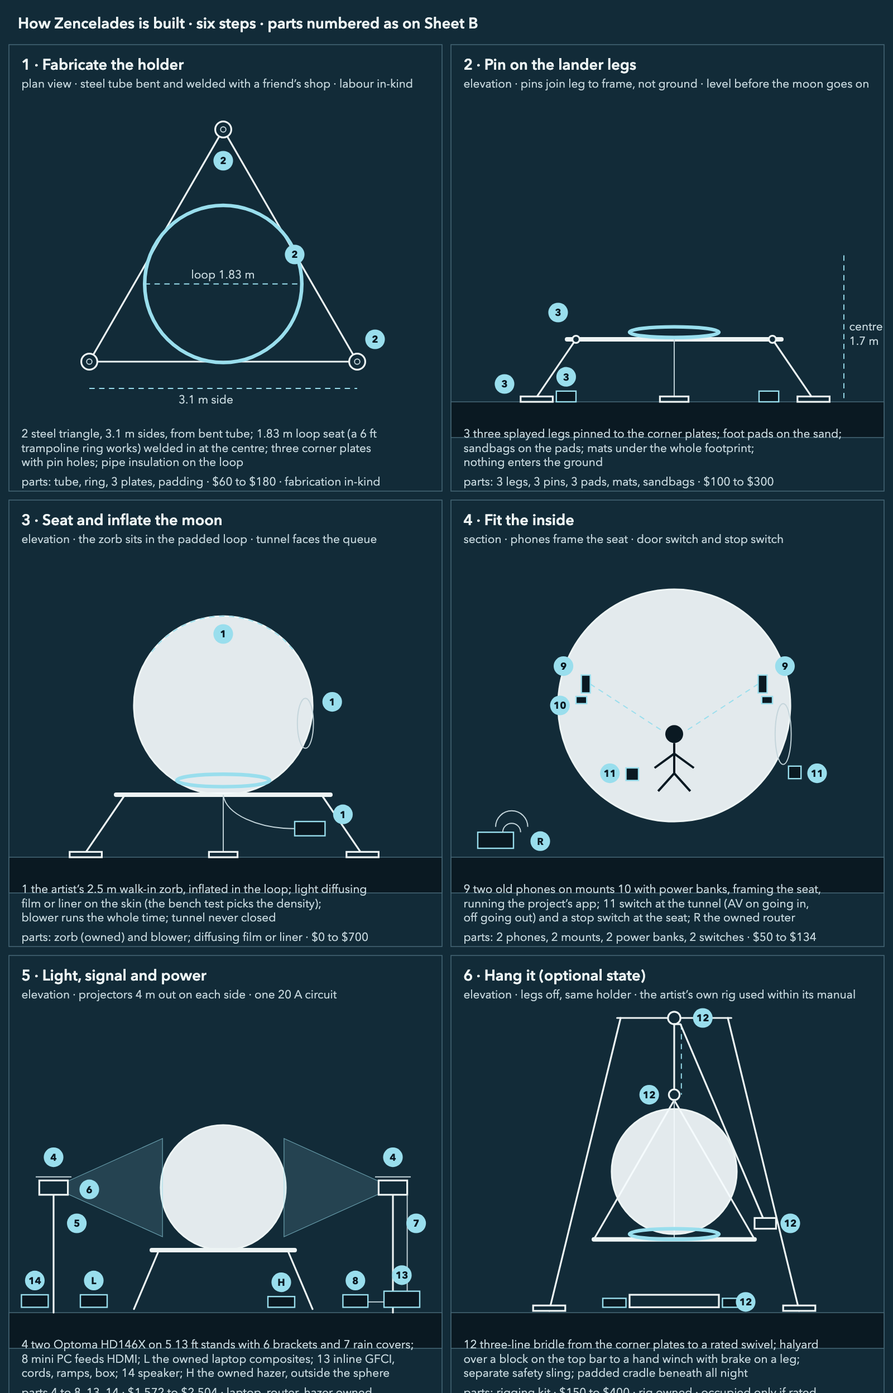
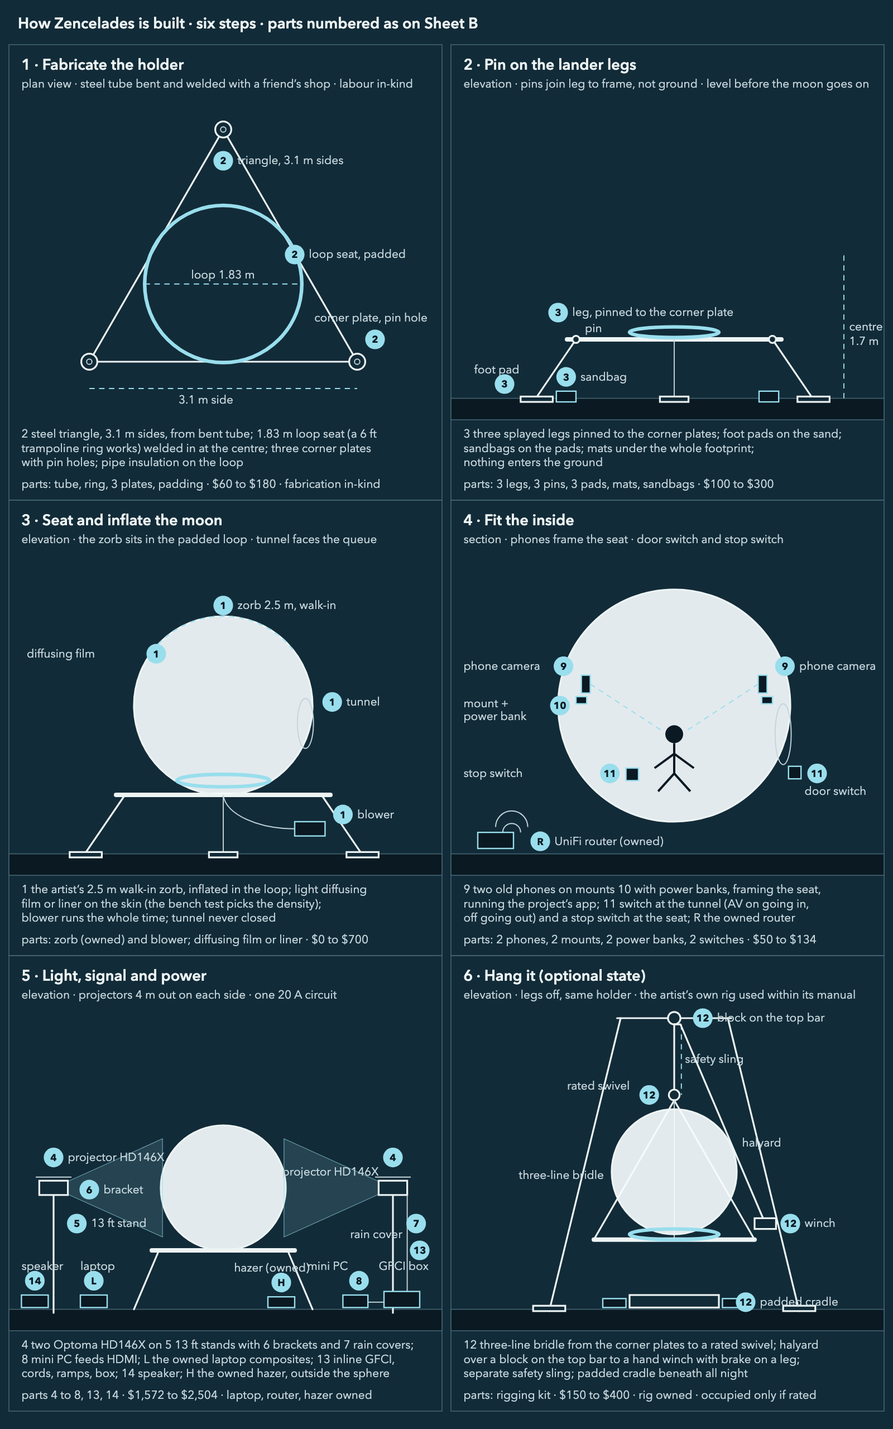
docs: name every part on the construction sheets
Claude-Session: https://claude.ai/code/session_01GkNvL9fxt2nbiAzuk569Mi

diff --git a/site/build/index.html b/site/build/index.html
@@ -27,6 +27,7 @@
     .schematic .nt{fill:#0a1922;font:700 11px var(--sans);text-anchor:middle}
     .schematic .person{stroke:#0a1922;stroke-width:2.5;fill:none}
     .schematic .head{fill:#0a1922}
+    .schematic .dk{fill:#0a1922}
     figure.plate{margin:0 0 2.5rem}
     .parts td:nth-child(1){text-align:center;white-space:nowrap}
     .parts td:nth-child(4),.parts td:nth-child(5){text-align:right;white-space:nowrap}
@@ -45,14 +46,14 @@
     <section id="steps" class="section" aria-labelledby="steps-title">
       <h2 id="steps-title">Sheet A · The build, step by step.</h2>
       <figure class="plate">
-        <svg class="schematic" viewBox="0 0 1000 1560" role="img" aria-labelledby="sa-t sa-d">
+        <svg class="schematic" viewBox="0 0 1000 1600" role="img" aria-labelledby="sa-t sa-d">
           <title id="sa-t">Six construction steps with labeled parts</title>
           <desc id="sa-d">Six panels: fabricate the steel triangle and loop seat; pin on three lander legs; seat and inflate the zorb; fit the phones and switches inside; set the projectors, mini PC and power; and, optionally, hang the same holder from the aerial rig with a bridle, swivel, winch and safety sling.</desc>
           <text x="20" y="32" class="h">How Zencelades is built · six steps · parts numbered as on Sheet B</text>
 
           <!-- Panel 1: fabricate the holder (plan view) -->
           <g transform="translate(0,50)">
-            <rect class="panel" x="10" y="0" width="485" height="500"/>
+            <rect class="panel" x="10" y="0" width="485" height="510"/>
             <text x="24" y="28" class="h">1 · Fabricate the holder</text>
             <text x="24" y="48" class="muted">plan view · steel tube bent and welded with a friend’s shop · labour in-kind</text>
             <polygon class="ink" points="250,95 100,355 400,355" stroke-width="5"/>
@@ -61,21 +62,21 @@
             <circle class="thin" cx="250" cy="95" r="3"/><circle class="thin" cx="100" cy="355" r="3"/><circle class="thin" cx="400" cy="355" r="3"/>
             <line class="dash" x1="100" y1="385" x2="400" y2="385"/><text x="200" y="402" class="muted">3.1 m side</text>
             <line class="dash" x1="162" y1="268" x2="338" y2="268"/><text x="214" y="262" class="muted">loop 1.83 m</text>
-            <circle class="n" cx="250" cy="130" r="11"/><text x="250" y="134" class="nt">2</text>
-            <circle class="n" cx="330" cy="235" r="11"/><text x="330" y="239" class="nt">2</text>
-            <circle class="n" cx="420" cy="330" r="11"/><text x="420" y="334" class="nt">2</text>
+            <circle class="n" cx="250" cy="130" r="11"/><text x="250" y="134" class="nt">2</text><text x="266" y="134" class="muted">triangle, 3.1 m sides</text>
+            <circle class="n" cx="330" cy="235" r="11"/><text x="330" y="239" class="nt">2</text><text x="346" y="239" class="muted">loop seat, padded</text>
+            <circle class="n" cx="420" cy="330" r="11"/><text x="420" y="334" class="nt">2</text><text x="352" y="310" class="muted">corner plate, pin hole</text>
             <text x="24" y="440" class="muted">2  steel triangle, 3.1 m sides, from bent tube; 1.83 m loop seat (a 6 ft</text>
             <text x="24" y="456" class="muted">    trampoline ring works) welded in at the centre; three corner plates</text>
             <text x="24" y="472" class="muted">    with pin holes; pipe insulation on the loop</text>
-            <text x="24" y="494" class="muted">parts: tube, ring, 3 plates, padding · $60 to $180 · fabrication in-kind</text>
+            <text x="24" y="496" class="muted">parts: tube, ring, 3 plates, padding · $60 to $180 · fabrication in-kind</text>
           </g>
 
           <!-- Panel 2: legs on (elevation) -->
           <g transform="translate(505,50)">
-            <rect class="panel" x="0" y="0" width="485" height="500"/>
+            <rect class="panel" x="0" y="0" width="485" height="510"/>
             <text x="14" y="28" class="h">2 · Pin on the lander legs</text>
             <text x="14" y="48" class="muted">elevation · pins join leg to frame, not ground · level before the moon goes on</text>
-            <rect class="ground" x="0" y="400" width="485" height="40"/>
+            <rect class="ground" x="0" y="396" width="485" height="24"/>
             <line class="bar" x1="130" y1="330" x2="370" y2="330"/>
             <ellipse class="loop" cx="250" cy="322" rx="50" ry="6"/>
             <line class="ink" x1="140" y1="330" x2="95" y2="396"/><line class="ink" x1="360" y1="330" x2="405" y2="396"/><line class="thin" x1="250" y1="330" x2="250" y2="396"/>
@@ -83,21 +84,21 @@
             <rect class="box" x="118" y="388" width="22" height="12"/><rect class="box" x="345" y="388" width="22" height="12"/>
             <circle class="solid" cx="140" cy="330" r="4"/><circle class="solid" cx="360" cy="330" r="4"/>
             <line class="dash" x1="440" y1="236" x2="440" y2="400"/><text x="446" y="320" class="muted">centre</text><text x="446" y="336" class="muted">1.7 m</text>
-            <circle class="n" cx="120" cy="300" r="11"/><text x="120" y="304" class="nt">3</text>
-            <circle class="n" cx="60" cy="380" r="11"/><text x="60" y="384" class="nt">3</text>
-            <circle class="n" cx="129" cy="372" r="11"/><text x="129" y="376" class="nt">3</text>
+            <circle class="n" cx="120" cy="300" r="11"/><text x="120" y="304" class="nt">3</text><text x="136" y="304" class="muted">leg, pinned to the corner plate</text><text x="150" y="322" class="muted">pin</text>
+            <circle class="n" cx="60" cy="380" r="11"/><text x="60" y="384" class="nt">3</text><text x="26" y="368" class="muted">foot pad</text>
+            <circle class="n" cx="129" cy="372" r="11"/><text x="129" y="376" class="nt">3</text><text x="145" y="376" class="muted">sandbag</text>
             <text x="14" y="440" class="muted">3  three splayed legs pinned to the corner plates; foot pads on the sand;</text>
             <text x="14" y="456" class="muted">    sandbags on the pads; mats under the whole footprint;</text>
             <text x="14" y="472" class="muted">    nothing enters the ground</text>
-            <text x="14" y="494" class="muted">parts: 3 legs, 3 pins, 3 pads, mats, sandbags · $100 to $300</text>
+            <text x="14" y="496" class="muted">parts: 3 legs, 3 pins, 3 pads, mats, sandbags · $100 to $300</text>
           </g>
 
           <!-- Panel 3: seat the moon -->
           <g transform="translate(0,560)">
-            <rect class="panel" x="10" y="0" width="485" height="500"/>
+            <rect class="panel" x="10" y="0" width="485" height="510"/>
             <text x="24" y="28" class="h">3 · Seat and inflate the moon</text>
             <text x="24" y="48" class="muted">elevation · the zorb sits in the padded loop · tunnel faces the queue</text>
-            <rect class="ground" x="10" y="400" width="485" height="40"/>
+            <rect class="ground" x="10" y="396" width="485" height="24"/>
             <line class="bar" x1="130" y1="330" x2="370" y2="330"/>
             <line class="ink" x1="140" y1="330" x2="95" y2="396"/><line class="ink" x1="360" y1="330" x2="405" y2="396"/><line class="thin" x1="250" y1="330" x2="250" y2="396"/>
             <rect class="solid" x="78" y="394" width="36" height="6"/><rect class="solid" x="388" y="394" width="36" height="6"/><rect class="solid" x="234" y="394" width="32" height="6"/>
@@ -106,21 +107,21 @@
             <ellipse class="thin" cx="342" cy="250" rx="9" ry="28"/>
             <path class="thin" d="M250 330 C252 352 290 368 330 368"/><rect class="box" x="330" y="360" width="34" height="16"/>
             <path class="dash" d="M170 170 A100 100 0 0 1 330 170"/>
-            <circle class="n" cx="250" cy="150" r="11"/><text x="250" y="154" class="nt">1</text>
-            <circle class="n" cx="372" cy="226" r="11"/><text x="372" y="230" class="nt">1</text>
-            <circle class="n" cx="384" cy="352" r="11"/><text x="384" y="356" class="nt">1</text>
+            <circle class="n" cx="250" cy="118" r="11"/><text x="250" y="122" class="nt">1</text><text x="266" y="122" class="muted">zorb 2.5 m, walk-in</text><circle class="n" cx="175" cy="172" r="11"/><text x="175" y="176" class="nt">1</text><text x="30" y="176" class="muted">diffusing film</text>
+            <circle class="n" cx="372" cy="226" r="11"/><text x="372" y="230" class="nt">1</text><text x="388" y="230" class="muted">tunnel</text>
+            <circle class="n" cx="384" cy="352" r="11"/><text x="384" y="356" class="nt">1</text><text x="400" y="356" class="muted">blower</text>
             <text x="24" y="440" class="muted">1  the artist’s 2.5 m walk-in zorb, inflated in the loop; light diffusing</text>
             <text x="24" y="456" class="muted">    film or liner on the skin (the bench test picks the density);</text>
             <text x="24" y="472" class="muted">    blower runs the whole time; tunnel never closed</text>
-            <text x="24" y="494" class="muted">parts: zorb (owned) and blower; diffusing film or liner · $0 to $700</text>
+            <text x="24" y="496" class="muted">parts: zorb (owned) and blower; diffusing film or liner · $0 to $700</text>
           </g>
 
           <!-- Panel 4: inside -->
           <g transform="translate(505,560)">
-            <rect class="panel" x="0" y="0" width="485" height="500"/>
+            <rect class="panel" x="0" y="0" width="485" height="510"/>
             <text x="14" y="28" class="h">4 · Fit the inside</text>
             <text x="14" y="48" class="muted">section · phones frame the seat · door switch and stop switch</text>
-            <rect class="ground" x="0" y="400" width="485" height="40"/>
+            <rect class="ground" x="0" y="396" width="485" height="24"/>
             <circle class="sphere" cx="250" cy="230" r="130"/>
             <ellipse class="thin" cx="372" cy="262" rx="9" ry="34"/>
             <circle class="head" cx="250" cy="262" r="10"/><path class="person" d="M250 272 L250 306 M250 306 L232 326 M250 306 L268 326 M250 284 L228 300 M250 284 L272 300"/>
@@ -129,24 +130,24 @@
             <rect class="box" x="140" y="220" width="12" height="8"/><rect class="box" x="348" y="220" width="12" height="8"/>
             <rect class="box" x="378" y="298" width="14" height="14"/><rect class="box" x="196" y="300" width="14" height="14"/>
             <rect class="box" x="30" y="372" width="40" height="18"/><path class="thin" d="M50 366 A18 18 0 0 1 86 366" /><path class="thin" d="M58 372 A10 10 0 0 1 78 372"/>
-            <circle class="n" cx="126" cy="186" r="11"/><text x="126" y="190" class="nt">9</text>
-            <circle class="n" cx="374" cy="186" r="11"/><text x="374" y="190" class="nt">9</text>
-            <circle class="n" cx="122" cy="230" r="11"/><text x="122" y="234" class="nt">10</text>
-            <circle class="n" cx="410" cy="306" r="11"/><text x="410" y="310" class="nt">11</text>
-            <circle class="n" cx="178" cy="306" r="11"/><text x="178" y="310" class="nt">11</text>
-            <circle class="n" cx="100" cy="382" r="11"/><text x="100" y="386" class="nt">R</text>
+            <circle class="n" cx="126" cy="186" r="11"/><text x="126" y="190" class="nt">9</text><text x="14" y="190" class="muted">phone camera</text>
+            <circle class="n" cx="374" cy="186" r="11"/><text x="374" y="190" class="nt">9</text><text x="390" y="190" class="muted">phone camera</text>
+            <circle class="n" cx="122" cy="230" r="11"/><text x="122" y="234" class="nt">10</text><text x="14" y="232" class="muted">mount +</text><text x="14" y="246" class="muted">power bank</text>
+            <circle class="n" cx="410" cy="306" r="11"/><text x="410" y="310" class="nt">11</text><text x="396" y="330" class="muted">door switch</text>
+            <circle class="n" cx="178" cy="306" r="11"/><text x="178" y="310" class="nt">11</text><text x="14" y="310" class="muted">stop switch</text>
+            <circle class="n" cx="100" cy="382" r="11"/><text x="100" y="386" class="nt">R</text><text x="116" y="386" class="muted">UniFi router (owned)</text>
             <text x="14" y="440" class="muted">9  two old phones on mounts 10 with power banks, framing the seat,</text>
             <text x="14" y="456" class="muted">    running the project’s app; 11 switch at the tunnel (AV on going in,</text>
             <text x="14" y="472" class="muted">    off going out) and a stop switch at the seat; R the owned router</text>
-            <text x="14" y="494" class="muted">parts: 2 phones, 2 mounts, 2 power banks, 2 switches · $50 to $134</text>
+            <text x="14" y="496" class="muted">parts: 2 phones, 2 mounts, 2 power banks, 2 switches · $50 to $134</text>
           </g>
 
           <!-- Panel 5: light and signal -->
           <g transform="translate(0,1070)">
-            <rect class="panel" x="10" y="0" width="485" height="500"/>
+            <rect class="panel" x="10" y="0" width="485" height="510"/>
             <text x="24" y="28" class="h">5 · Light, signal and power</text>
             <text x="24" y="48" class="muted">elevation · projectors 4 m out on each side · one 20 A circuit</text>
-            <rect class="ground" x="10" y="400" width="485" height="40"/>
+            <rect class="ground" x="10" y="396" width="485" height="24"/>
             <circle class="sphere" cx="250" cy="260" r="70"/>
             <line class="bar" x1="170" y1="330" x2="330" y2="330"/><line class="ink" x1="178" y1="330" x2="150" y2="396"/><line class="ink" x1="322" y1="330" x2="350" y2="396"/>
             <polygon class="beam" points="60,260 182,205 182,315"/><polygon class="beam" points="440,260 318,205 318,315"/>
@@ -157,28 +158,28 @@
             <rect class="box" x="384" y="380" width="28" height="14"/><rect class="box" x="430" y="376" width="40" height="18"/>
             <rect class="box" x="300" y="382" width="30" height="12"/>
             <path class="thin" d="M412 388 L430 388"/><path class="thin" d="M456 268 L456 376"/>
-            <circle class="n" cx="60" cy="226" r="11"/><text x="60" y="230" class="nt">4</text>
-            <circle class="n" cx="440" cy="226" r="11"/><text x="440" y="230" class="nt">4</text>
-            <circle class="n" cx="86" cy="300" r="11"/><text x="86" y="304" class="nt">5</text>
-            <circle class="n" cx="100" cy="262" r="11"/><text x="100" y="266" class="nt">6</text>
-            <circle class="n" cx="466" cy="300" r="11"/><text x="466" y="304" class="nt">7</text>
-            <circle class="n" cx="398" cy="364" r="11"/><text x="398" y="368" class="nt">8</text>
-            <circle class="n" cx="450" cy="358" r="11"/><text x="450" y="362" class="nt">13</text>
-            <circle class="n" cx="39" cy="364" r="11"/><text x="39" y="368" class="nt">14</text>
-            <circle class="n" cx="105" cy="364" r="11"/><text x="105" y="368" class="nt">L</text>
-            <circle class="n" cx="315" cy="366" r="11"/><text x="315" y="370" class="nt">H</text>
+            <circle class="n" cx="60" cy="226" r="11"/><text x="60" y="230" class="nt">4</text><text x="76" y="230" class="muted">projector HD146X</text>
+            <circle class="n" cx="440" cy="226" r="11"/><text x="440" y="230" class="nt">4</text><text x="316" y="246" class="muted">projector HD146X</text>
+            <circle class="n" cx="86" cy="300" r="11"/><text x="86" y="304" class="nt">5</text><text x="102" y="304" class="muted">13 ft stand</text>
+            <circle class="n" cx="100" cy="262" r="11"/><text x="100" y="266" class="nt">6</text><text x="116" y="266" class="muted">bracket</text>
+            <circle class="n" cx="466" cy="300" r="11"/><text x="466" y="304" class="nt">7</text><text x="392" y="316" class="muted">rain cover</text>
+            <circle class="n" cx="402" cy="364" r="11"/><text x="402" y="368" class="nt">8</text><text x="344" y="352" class="muted">mini PC</text>
+            <circle class="n" cx="470" cy="330" r="11"/><text x="470" y="334" class="nt">13</text><text x="424" y="352" class="muted">GFCI box</text>
+            <circle class="n" cx="39" cy="364" r="11"/><text x="39" y="368" class="nt">14</text><text x="24" y="352" class="muted">speaker</text>
+            <circle class="n" cx="105" cy="364" r="11"/><text x="105" y="368" class="nt">L</text><text x="90" y="352" class="muted">laptop</text>
+            <circle class="n" cx="315" cy="366" r="11"/><text x="315" y="370" class="nt">H</text><text x="262" y="354" class="muted">hazer (owned)</text>
             <text x="24" y="440" class="muted">4  two Optoma HD146X on 5 13 ft stands with 6 brackets and 7 rain covers;</text>
             <text x="24" y="456" class="muted">    8 mini PC feeds HDMI; L the owned laptop composites; 13 inline GFCI,</text>
             <text x="24" y="472" class="muted">    cords, ramps, box; 14 speaker; H the owned hazer, outside the sphere</text>
-            <text x="24" y="494" class="muted">parts 4 to 8, 13, 14 · $1,572 to $2,504 · laptop, router, hazer owned</text>
+            <text x="24" y="496" class="muted">parts 4 to 8, 13, 14 · $1,572 to $2,504 · laptop, router, hazer owned</text>
           </g>
 
           <!-- Panel 6: hang -->
           <g transform="translate(505,1070)">
-            <rect class="panel" x="0" y="0" width="485" height="500"/>
+            <rect class="panel" x="0" y="0" width="485" height="510"/>
             <text x="14" y="28" class="h">6 · Hang it (optional state)</text>
             <text x="14" y="48" class="muted">elevation · legs off, same holder · the artist’s own rig used within its manual</text>
-            <rect class="ground" x="0" y="400" width="485" height="40"/>
+            <rect class="ground" x="0" y="396" width="485" height="24"/>
             <polyline class="ink" points="110,398 190,70"/><polyline class="ink" points="390,398 310,70"/><line class="ink" x1="186" y1="70" x2="314" y2="70" stroke-width="4"/>
             <rect class="solid" x="92" y="392" width="36" height="6"/><rect class="solid" x="372" y="392" width="36" height="6"/>
             <circle class="solid" cx="250" cy="70" r="7"/>
@@ -191,14 +192,14 @@
             <line class="bar" x1="160" y1="318" x2="340" y2="318"/>
             <ellipse class="loop" cx="250" cy="312" rx="50" ry="6"/>
             <rect class="solid" x="200" y="380" width="100" height="14"/><rect class="box" x="170" y="384" width="26" height="10"/><rect class="box" x="304" y="384" width="26" height="10"/>
-            <circle class="n" cx="282" cy="70" r="11"/><text x="282" y="74" class="nt">12</text>
-            <circle class="n" cx="222" cy="156" r="11"/><text x="222" y="160" class="nt">12</text>
-            <circle class="n" cx="380" cy="300" r="11"/><text x="380" y="304" class="nt">12</text>
-            <circle class="n" cx="330" cy="388" r="11"/><text x="330" y="392" class="nt">12</text>
+            <circle class="n" cx="282" cy="70" r="11"/><text x="282" y="74" class="nt">12</text><text x="298" y="74" class="muted">block on the top bar</text><text x="262" y="120" class="muted">safety sling</text>
+            <circle class="n" cx="222" cy="156" r="11"/><text x="222" y="160" class="nt">12</text><text x="130" y="150" class="muted">rated swivel</text><text x="76" y="250" class="muted">three-line bridle</text><text x="326" y="214" class="muted">halyard</text>
+            <circle class="n" cx="380" cy="300" r="11"/><text x="380" y="304" class="nt">12</text><text x="396" y="304" class="muted">winch</text>
+            <circle class="n" cx="330" cy="388" r="11"/><text x="330" y="392" class="nt">12</text><text x="346" y="392" class="muted">padded cradle</text>
             <text x="14" y="440" class="muted">12 three-line bridle from the corner plates to a rated swivel; halyard</text>
             <text x="14" y="456" class="muted">    over a block on the top bar to a hand winch with brake on a leg;</text>
             <text x="14" y="472" class="muted">    separate safety sling; padded cradle beneath all night</text>
-            <text x="14" y="494" class="muted">parts: rigging kit · $150 to $400 · rig owned · occupied only if rated</text>
+            <text x="14" y="496" class="muted">parts: rigging kit · $150 to $400 · rig owned · occupied only if rated</text>
           </g>
         </svg>
         <figcaption><strong>Order of work.</strong> Steps 1 and 2 happen in the shop in November; 3 to 5 are the afternoon setup on site; 6 is used only if the rig is approved and rated for it. Spares, tape and a repair kit (15) ride along, and the 20% contingency sits on top of every line.</figcaption>
@@ -244,21 +245,21 @@
           <rect class="box" x="60" y="470" width="50" height="22"/><text x="58" y="464" class="muted">laptop</text>
           <path class="thin" d="M604 549 C620 500 660 470 720 470"/><path class="thin" d="M796 548 L900 548"/><path class="thin" d="M862 338 L862 548" stroke-dasharray="2 4"/><path class="thin" d="M140 338 C200 560 400 560 900 548" stroke-dasharray="2 4"/>
           <!-- callouts -->
-          <circle class="n" cx="500" cy="170" r="12"/><text x="500" y="174" class="nt">1</text>
-          <circle class="n" cx="690" cy="452" r="12"/><text x="690" y="456" class="nt">2</text>
-          <circle class="n" cx="596" cy="438" r="12"/><text x="596" y="442" class="nt">2</text>
-          <circle class="n" cx="252" cy="520" r="12"/><text x="252" y="524" class="nt">3</text>
-          <circle class="n" cx="140" cy="292" r="12"/><text x="140" y="296" class="nt">4</text>
-          <circle class="n" cx="860" cy="292" r="12"/><text x="860" y="296" class="nt">4</text>
-          <circle class="n" cx="166" cy="420" r="12"/><text x="166" y="424" class="nt">5</text>
-          <circle class="n" cx="182" cy="346" r="12"/><text x="182" y="350" class="nt">6</text>
-          <circle class="n" cx="900" cy="310" r="12"/><text x="900" y="314" class="nt">7</text>
+          <circle class="n" cx="500" cy="170" r="12"/><text x="500" y="174" class="nt">1</text><text x="518" y="174" class="muted">walk-in zorb 2.5 m, lightly frosted skin</text>
+          <circle class="n" cx="690" cy="452" r="12"/><text x="690" y="456" class="nt">2</text><text x="706" y="456" class="muted">steel triangle</text>
+          <circle class="n" cx="300" cy="452" r="12"/><text x="300" y="456" class="nt">2</text><text x="176" y="456" class="muted">loop seat 1.83 m</text>
+          <circle class="n" cx="252" cy="520" r="12"/><text x="252" y="524" class="nt">3</text><text x="268" y="524" class="muted">lander leg, pin, foot pad, sandbag</text>
+          <circle class="n" cx="140" cy="292" r="12"/><text x="140" y="296" class="nt">4</text><text x="156" y="296" class="muted">projector HD146X</text>
+          <circle class="n" cx="860" cy="292" r="12"/><text x="860" y="296" class="nt">4</text><text x="730" y="296" class="muted">projector HD146X</text>
+          <circle class="n" cx="166" cy="420" r="12"/><text x="166" y="424" class="nt">5</text><text x="182" y="424" class="muted">13 ft stand</text>
+          <circle class="n" cx="182" cy="346" r="12"/><text x="182" y="350" class="nt">6</text><text x="198" y="350" class="muted">bracket</text>
+          <circle class="n" cx="900" cy="310" r="12"/><text x="900" y="314" class="nt">7</text><text x="916" y="314" class="muted">rain cover</text>
           <circle class="n" cx="738" cy="520" r="12"/><text x="738" y="524" class="nt">8</text>
-          <circle class="n" cx="380" cy="300" r="12"/><text x="380" y="304" class="nt">9</text>
-          <circle class="n" cx="372" cy="356" r="12"/><text x="372" y="360" class="nt">10</text>
-          <circle class="n" cx="676" cy="400" r="12"/><text x="676" y="404" class="nt">11</text>
-          <circle class="n" cx="436" cy="418" r="12"/><text x="436" y="422" class="nt">11</text>
-          <circle class="n" cx="960" cy="506" r="12"/><text x="960" y="510" class="nt">13</text>
+          <circle class="n" cx="380" cy="300" r="12"/><text x="380" y="304" class="nt">9</text><text x="286" y="286" class="muted">phone camera</text>
+          <circle class="n" cx="372" cy="356" r="12"/><text x="372" y="360" class="nt">10</text><text x="244" y="360" class="muted">mount, power bank</text>
+          <circle class="n" cx="676" cy="400" r="12"/><text x="676" y="404" class="nt">11</text><text x="692" y="404" class="muted">door switch</text>
+          <circle class="n" cx="436" cy="418" r="12"/><text x="436" y="422" class="nt">11</text><text x="400" y="384" class="dk">stop switch</text>
+          <circle class="n" cx="960" cy="506" r="12"/><text x="960" y="510" class="nt">13</text><text x="880" y="498" class="muted">cords, ramps</text>
           <circle class="n" cx="100" cy="548" r="12"/><text x="100" y="552" class="nt">14</text>
           <circle class="n" cx="252" cy="520" r="0"/>
           <circle class="n" cx="240" cy="520" r="0"/>

diff --git a/docs/design/application/submission/README.md b/docs/design/application/submission/README.md
@@ -17,7 +17,7 @@ out, so paste rather than compose in it.
 
 Nothing else uploads: every drawing goes in as an image, every document as a link.
 
-## ART PROJECT PHOTOS, in this order (10.8 MB total, every file under 5 MB)
+## ART PROJECT PHOTOS, in this order (10.9 MB total, every file under 5 MB)
 
 1. `01-concept-landed.png` (2.6 MB) concept art, a person inside the moon with their face on it; this is the thumbnail
 2. `02-lander-3d-model.png` Codex's Blender render of the 2.5 m landed assembly, cut away: seat, tunnel, loop, triangle, lander legs

diff --git a/docs/grant-application-packet.md b/docs/grant-application-packet.md
@@ -179,7 +179,7 @@ first image is the thumbnail the committee sees in its list.
 12. `submission/12-parts-labeled.png` every part labeled, with the price
     table on the website
 
-About 10.8 MB total, every file under 5 MB. The concept art and the 3D model renders show the
+About 10.9 MB total, every file under 5 MB. The concept art and the 3D model renders show the
 one-unit upgrade (projector heads on arms from the triangle); the plates
 show the 2027 build with the projectors on stands.
 
